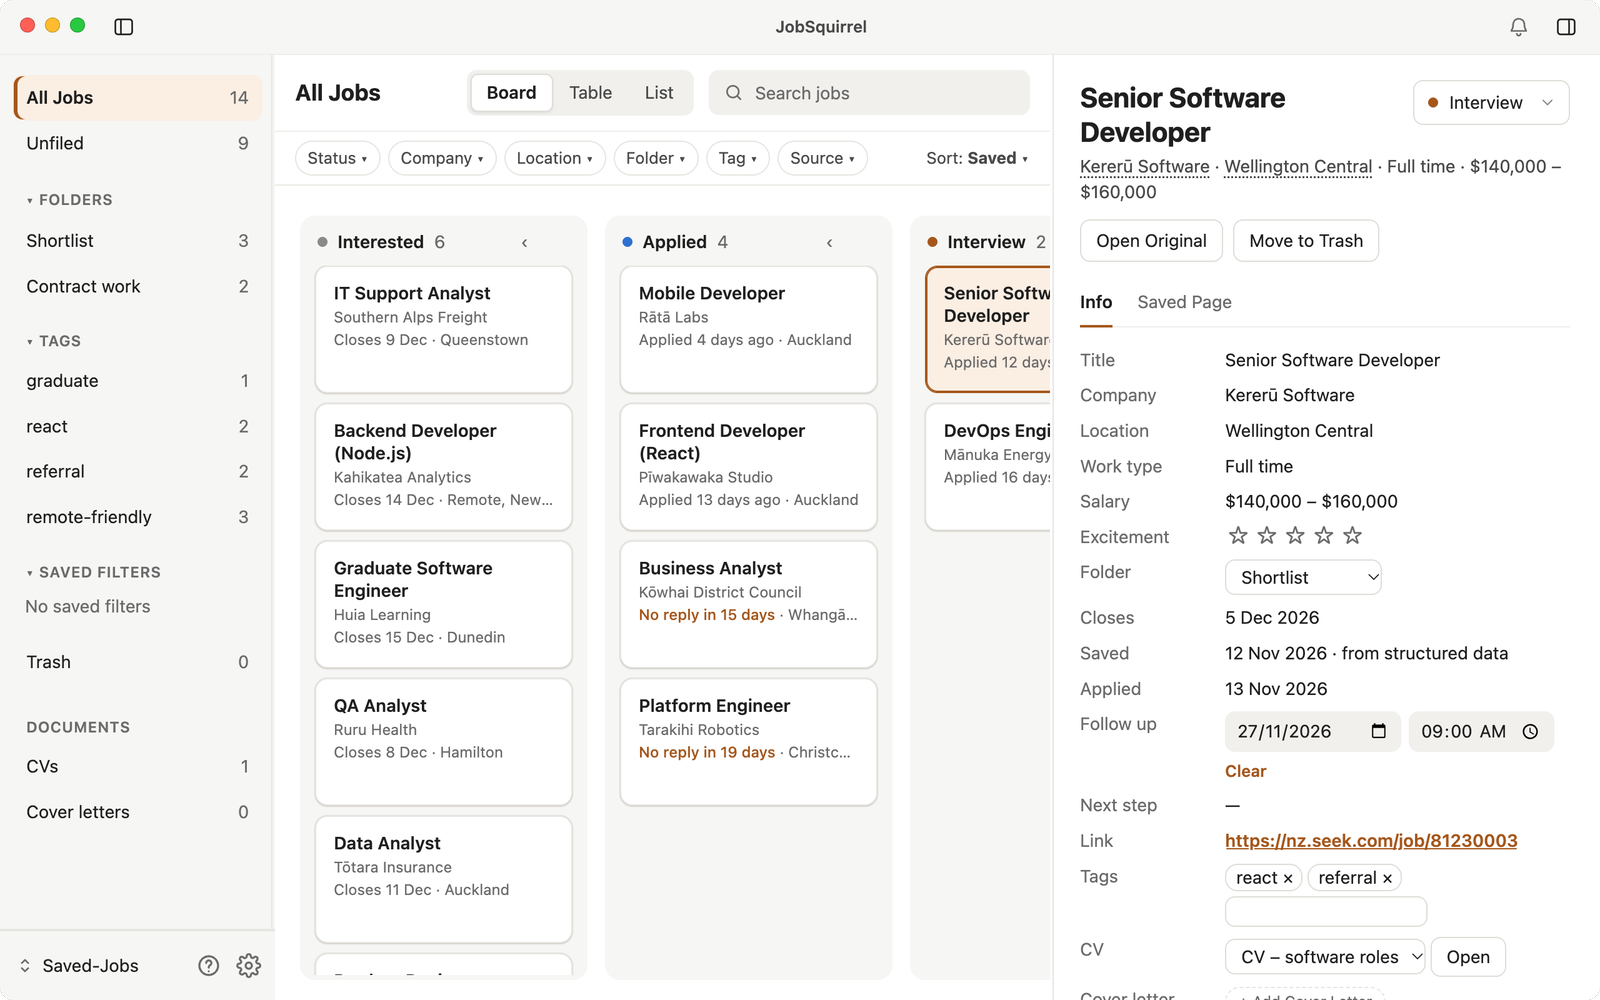
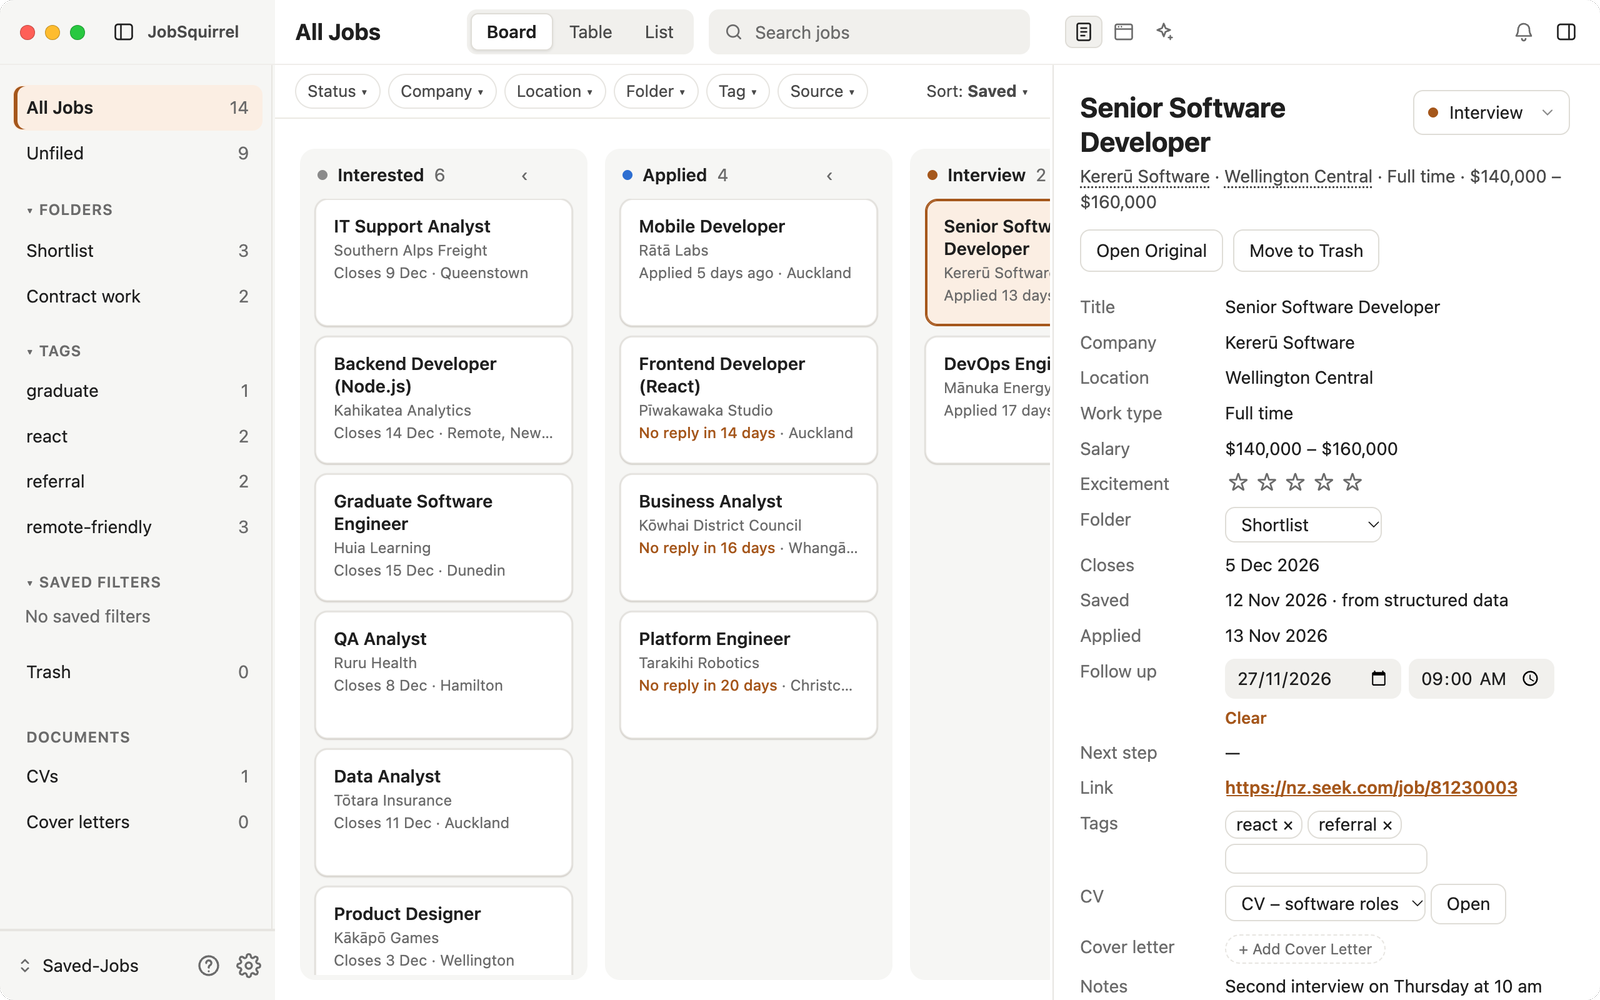
0.1.3: chat about a job with your own AI; new pictures

diff --git a/README.md b/README.md
@@ -32,6 +32,8 @@
 
 Works with Seek, LinkedIn, Indeed, Trade Me Jobs, SEEK Grad, Prosple, Student Job Search and any other job page. Free, no account: your jobs stay in a folder on your computer.
 
+Need a cover letter? Right-click a job ▸ **Chat About This Job** opens the AI you already use, Claude Code or Codex, with a copy of the ad, your notes and your CV. JobSquirrel itself sends nothing.
+
 ⭐ If it helps your search, a star helps other job seekers find it.
 
 <sub>JobSquirrel is in beta. This page is for downloads; the app is not open source. Made-up jobs in the pictures.</sub>
